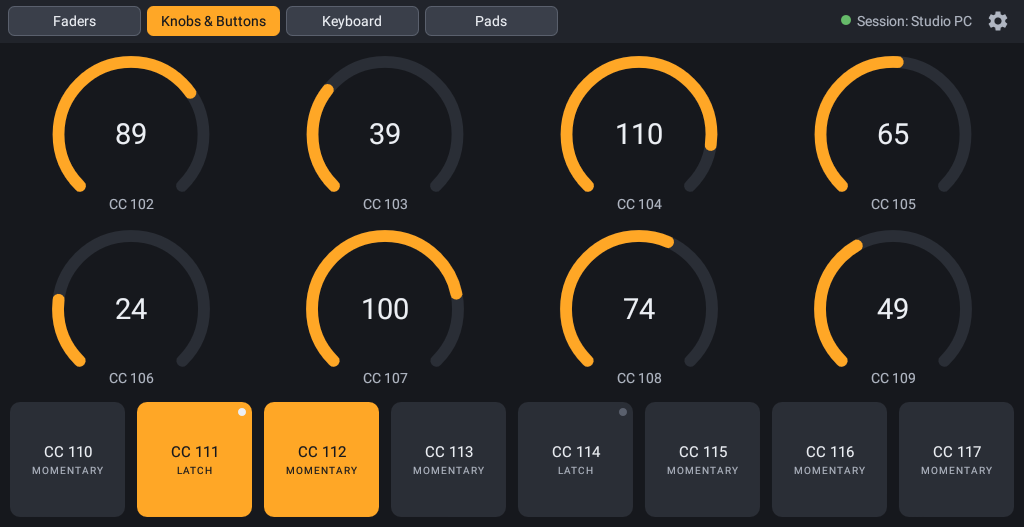
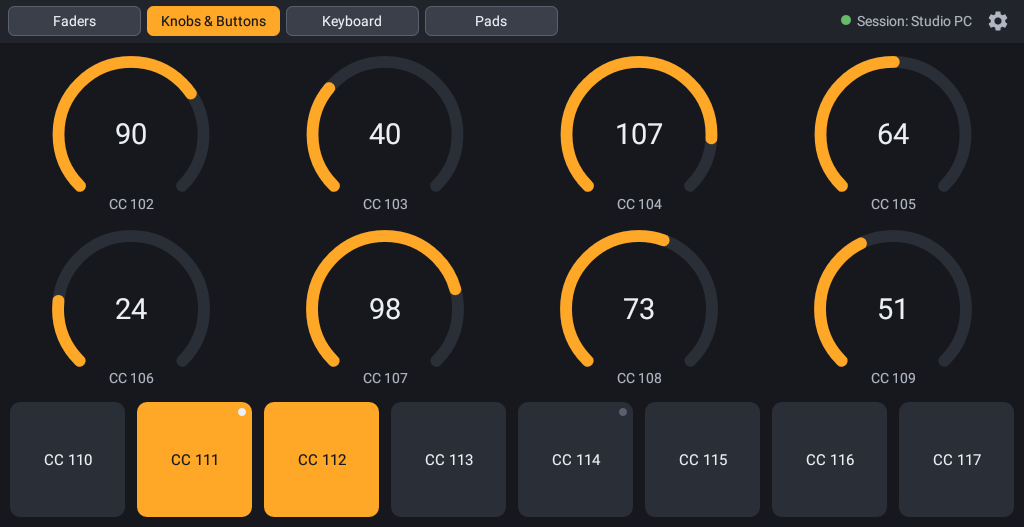
Remove Button mode labels, keep the Latch LED

diff --git a/app/src/main/java/com/duddex/faderling/ButtonView.kt b/app/src/main/java/com/duddex/faderling/ButtonView.kt
@@ -34,14 +34,7 @@ class ButtonView(context: Context) : View(context) {
         textAlign = Paint.Align.CENTER
         textSize = dp(15f)
     }
-    private val modePaint = TextPaint(Paint.ANTI_ALIAS_FLAG).apply {
-        textAlign = Paint.Align.CENTER
-        textSize = dp(10f)
-        letterSpacing = 0.08f
-    }
     private val ledPaint = Paint(Paint.ANTI_ALIAS_FLAG)
-    private val momentaryLabel = context.getString(R.string.mode_momentary).uppercase()
-    private val latchLabel = context.getString(R.string.mode_latch).uppercase()
     private val rect = RectF()
 
     override fun onMeasure(widthMeasureSpec: Int, heightMeasureSpec: Int) {
@@ -55,19 +48,9 @@ class ButtonView(context: Context) : View(context) {
         canvas.drawRoundRect(rect, dp(10f), dp(10f), if (isOn) onPaint else offPaint)
 
         val cx = width / 2f
-        val nameHeight = namePaint.descent() - namePaint.ascent()
-        val modeHeight = modePaint.descent() - modePaint.ascent()
-        val gap = dp(4f)
-        val top = height / 2f - (nameHeight + gap + modeHeight) / 2
-
         namePaint.color = if (isOn) Palette.BACKGROUND else Palette.TEXT
         val label = TextUtils.ellipsize(name, namePaint, rect.width() - dp(8f), TextUtils.TruncateAt.END).toString()
-        canvas.drawText(label, cx, top - namePaint.ascent(), namePaint)
-
-        modePaint.color = if (isOn) Palette.BACKGROUND else Palette.TEXT_DIM
-        val modeLabel = if (mode == ButtonMode.LATCH) latchLabel else momentaryLabel
-        val modeText = TextUtils.ellipsize(modeLabel, modePaint, rect.width() - dp(8f), TextUtils.TruncateAt.END).toString()
-        canvas.drawText(modeText, cx, top + nameHeight + gap - modePaint.ascent(), modePaint)
+        canvas.drawText(label, cx, height / 2f - (namePaint.descent() + namePaint.ascent()) / 2, namePaint)
 
         if (mode == ButtonMode.LATCH) {
             val r = dp(4f)

diff --git a/README.md b/README.md
@@ -26,7 +26,7 @@ An Android app that turns a tablet into pages of MIDI controls – 10 faders, 8 
   - **Knobs & Buttons**: two rows of 4 knobs (drag up/down, relative, no jumps) above a row of 8 square buttons
   - **Keyboard**: 25 keys (two octaves, C to C) sending Note On/Note Off; chords and sliding across keys (glissando); *Oct −/Oct +* shift the range, shown in Ableton's note names (default C2–C4, i.e. notes 48–72)
   - **Pads**: 4×4 MPC-style drum pads (rectangular, up to 1.6 times wider than tall, to use the screen width) sending Note On/Note Off on channel 10, laid out like an Ableton Drum Rack (notes 36–51, C1 bottom left); every touch retriggers (two-finger rolls), sliding onto other Pads does nothing
-- Buttons are **Momentary** (on while held) or **Latch** (each press flips on/off); they send 127 for on, 0 for off. Each Button shows its mode under its name, and Latch Buttons have a small LED that lights while they are on
+- Buttons are **Momentary** (on while held) or **Latch** (each press flips on/off); they send 127 for on, 0 for off. Latch Buttons have a small LED in the corner that lights while they are on
 - 7-bit CC (0–127), send-only, landscape
 - Every Control re-sends its final value shortly after release, and every Note Off is sent twice, to make up for lost Wi-Fi packets; held notes are released when you switch Pages or leave the app
 - Per-Control Assignment (name, CC number, MIDI channel, and mode for buttons), plus Keyboard channel and velocity (default 100) and per-Pad name and note with a shared Pad channel and velocity, edited on the settings screen (gear icon); duplicate CC/channel combinations are flagged
